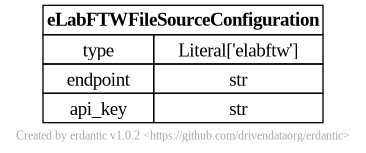
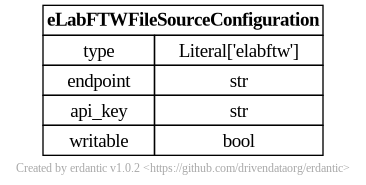
Set `writable: true` in file source template for eLabFTW

Changed region(s): [[0.0301, 0.0, 0.9617, 0.9412]]

diff --git a/lib/galaxy/files/templates/models.py b/lib/galaxy/files/templates/models.py
@@ -201,6 +201,7 @@ class eLabFTWFileSourceTemplateConfiguration(StrictModel):  # noqa
     type: Literal["elabftw"]
     endpoint: Union[str, TemplateExpansion]
     api_key: Union[str, TemplateExpansion]
+    writable: Union[bool, TemplateExpansion] = True
     template_start: Optional[str] = None
     template_end: Optional[str] = None
 
@@ -209,6 +210,7 @@ class eLabFTWFileSourceConfiguration(StrictModel):  # noqa
     type: Literal["elabftw"]
     endpoint: str
     api_key: str
+    writable: bool = True
 
 
 FileSourceTemplateConfiguration = Union[
